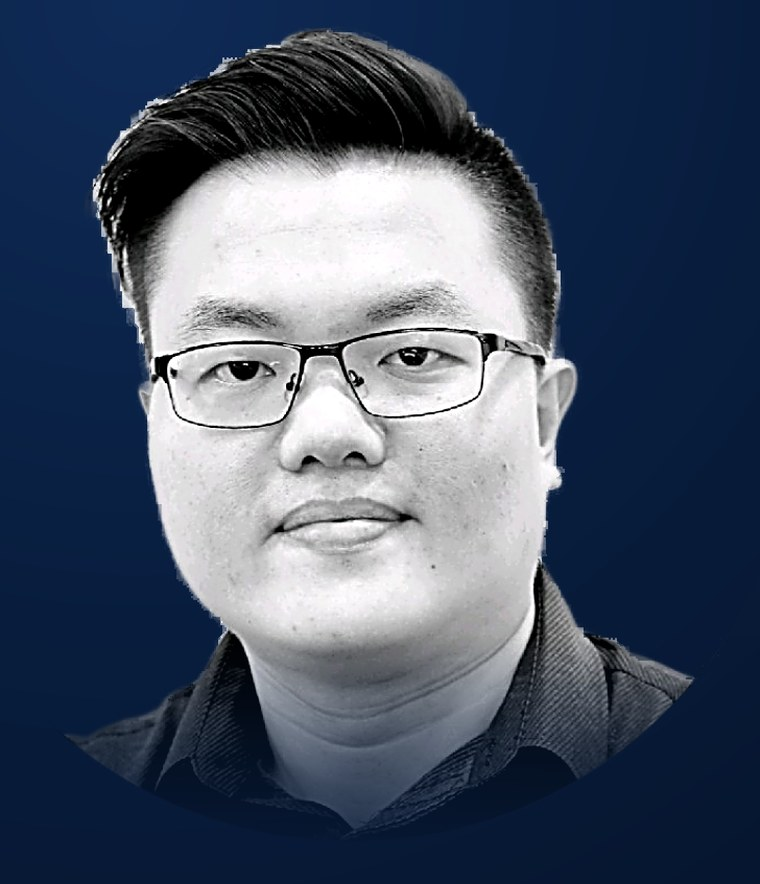
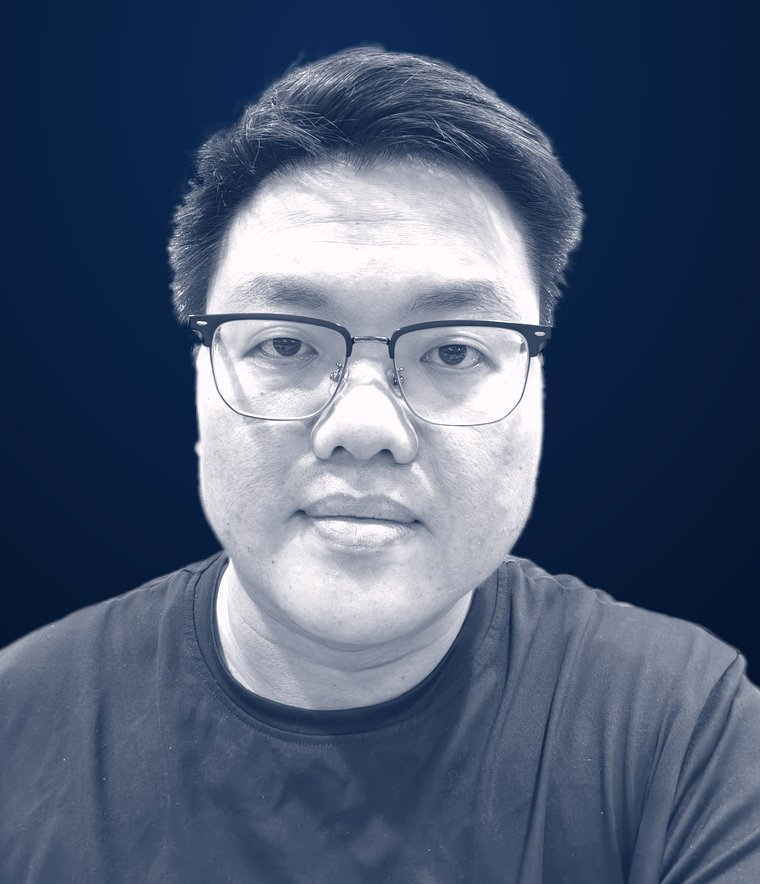
Fix clipped hero title and re-cut the portrait with a clean matte
- .reveal-line's overflow:hidden mask (used for the line-up reveal
  animation) had only .06em of bottom padding, which clipped the
  descender of the italic "y" in "Oentaryo" at large hero sizes.
  Bumped it to .22em so descenders clear the mask.
- Re-did the portrait's background removal from a high-resolution
  source photo with a proper matting model (isnet-general-use) instead
  of the low-res WhatsApp export, producing a clean, feathered
  hair/shoulder edge instead of the blocky cutout. Reapplied the same
  navy duotone treatment and vignette to match the existing look.

diff --git a/assets/css/style.css b/assets/css/style.css
@@ -464,7 +464,9 @@ em { font-style: italic; }
   background-clip: text;
   color: transparent;
 }
-.reveal-line { display: block; overflow: hidden; padding-bottom: .06em; }
+/* padding-bottom big enough to clear the italic serif's descenders (the
+   "y" in Oentaryo) before the reveal mask clips anything below the line. */
+.reveal-line { display: block; overflow: hidden; padding-bottom: .22em; }
 .reveal-inner { display: inline-block; transform: translateY(110%); animation: lineUp 1s var(--ease) forwards; }
 .reveal-line:nth-child(1) .reveal-inner { animation-delay: .12s; }
 .reveal-line:nth-child(2) .reveal-inner { animation-delay: .26s; }
